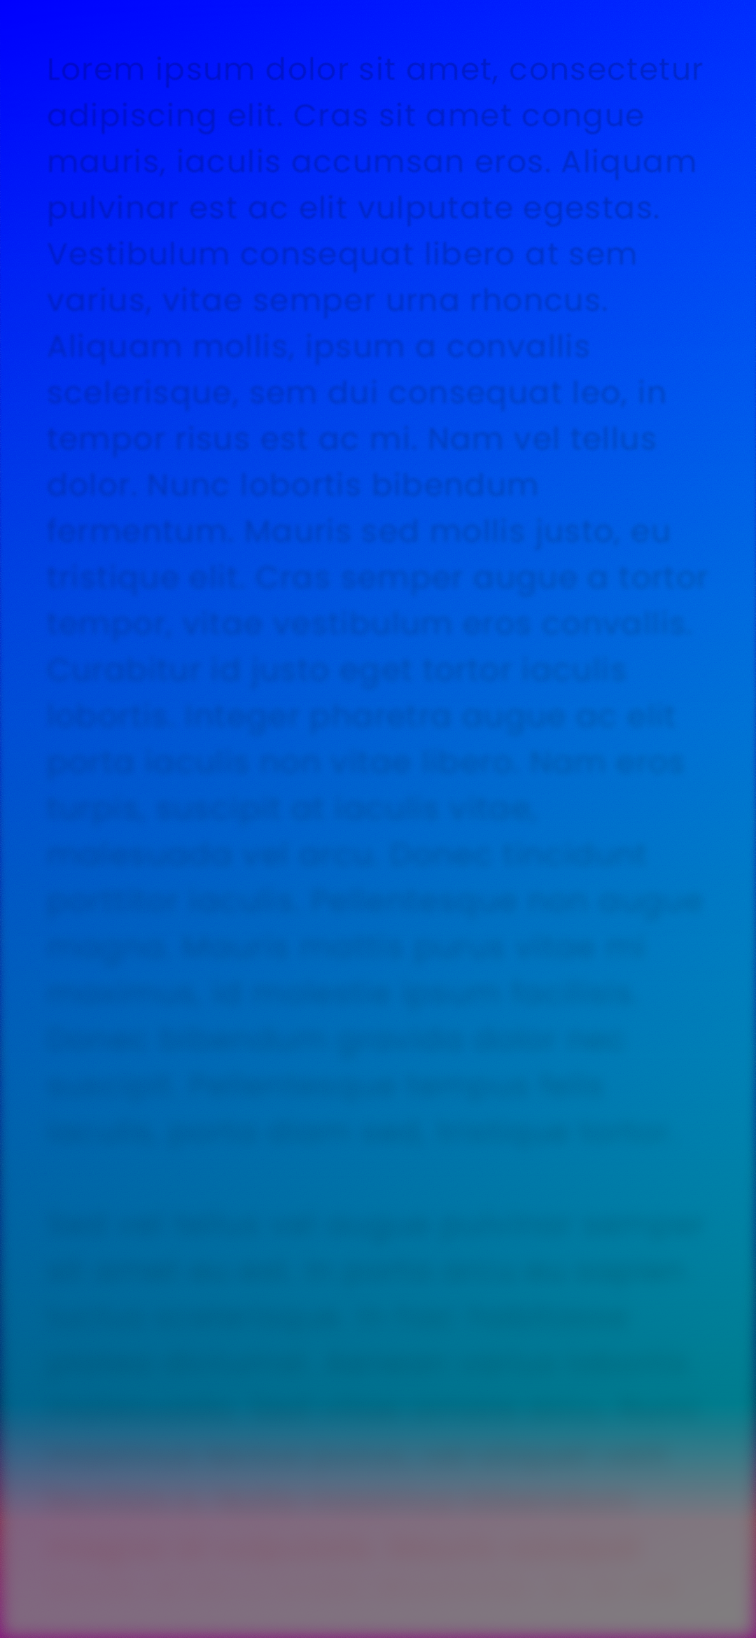
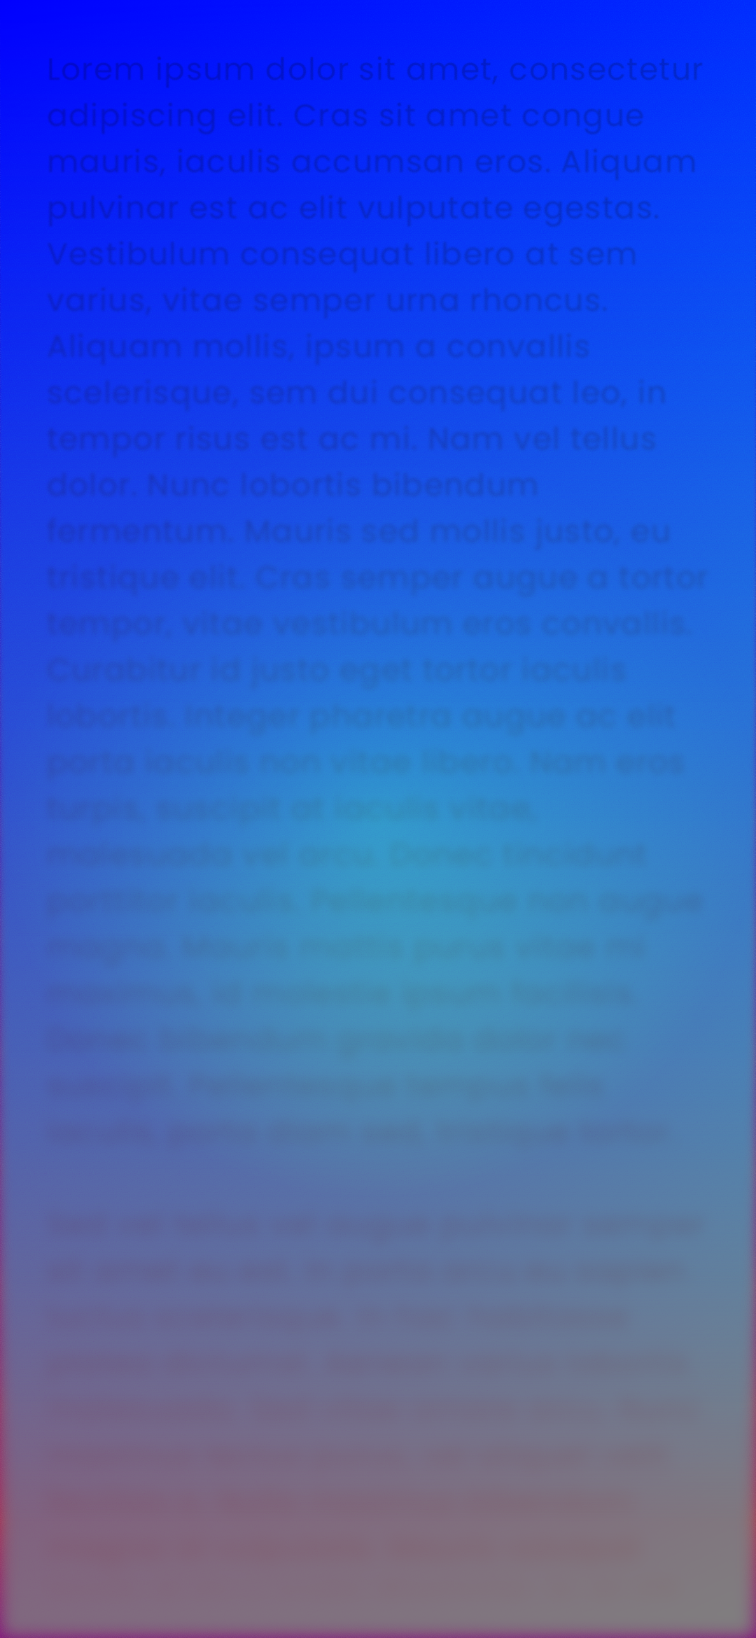
Fix progressive brush tint alpha modulation (#1331)
## Summary

- Preserve brush RGB during progressive tint-alpha modulation with
`DstIn`.
- Add API 31/32 solid-brush versus solid-colour pixel-parity coverage.
- Update the two affected Android API-32 progressive-brush references,
restoring the red/yellow brush over the blue/cyan background.

## Validation

- `./gradlew :haze-screenshot-tests:verifyScreenshotMatrixPr --no-scan`
- `./gradlew check --no-scan`

diff --git a/haze-screenshot-tests/src/androidHostTest/kotlin/dev/chrisbanes/haze/ProgressiveBlurAndroidScreenshotTest.kt b/haze-screenshot-tests/src/androidHostTest/kotlin/dev/chrisbanes/haze/ProgressiveBlurAndroidScreenshotTest.kt
@@ -8,16 +8,22 @@ package dev.chrisbanes.haze
 import androidx.compose.foundation.background
 import androidx.compose.foundation.layout.Box
 import androidx.compose.foundation.layout.Column
+import androidx.compose.foundation.layout.Row
+import androidx.compose.foundation.layout.fillMaxHeight
 import androidx.compose.foundation.layout.fillMaxSize
+import androidx.compose.runtime.Composable
 import androidx.compose.runtime.mutableStateOf
 import androidx.compose.ui.Modifier
+import androidx.compose.ui.graphics.Brush
 import androidx.compose.ui.graphics.Color
 import androidx.compose.ui.graphics.luminance
 import androidx.compose.ui.unit.dp
 import assertk.assertThat
+import assertk.assertions.isCloseTo
 import assertk.assertions.isGreaterThan
 import assertk.assertions.isLessThan
 import dev.chrisbanes.haze.blur.HazeBlurStyle
+import dev.chrisbanes.haze.blur.HazeColorEffect
 import dev.chrisbanes.haze.blur.hazeBlur
 import dev.chrisbanes.haze.test.ScreenshotTest
 import dev.chrisbanes.haze.test.ScreenshotTheme
@@ -27,6 +33,36 @@ import org.robolectric.annotation.Config
 
 @Config(sdk = [31, 32])
 class ProgressiveBlurAndroidScreenshotTest : ScreenshotTest() {
+
+  @Test
+  fun solidRedBrushTint_matchesSolidRedColorTint() = runScreenshotTest {
+    setContent {
+      ScreenshotTheme {
+        Row(Modifier.fillMaxSize()) {
+          TintCell(
+            modifier = Modifier.weight(1f).fillMaxHeight(),
+            colorEffect = HazeColorEffect.tint(
+              Brush.verticalGradient(0f to Color.Red, 1f to Color.Red),
+            ),
+          )
+          TintCell(
+            modifier = Modifier.weight(1f).fillMaxHeight(),
+            colorEffect = HazeColorEffect.tint(Color.Red),
+          )
+        }
+      }
+    }
+
+    val pixels = captureRootPixels()
+    val brushTintPixel = pixels[pixels.width / 4, pixels.height / 2]
+    val colorTintPixel = pixels[pixels.width * 3 / 4, pixels.height / 2]
+
+    assertThat(brushTintPixel.red, "brush tint red").isCloseTo(colorTintPixel.red, 0.01f)
+    assertThat(brushTintPixel.green, "brush tint green").isCloseTo(colorTintPixel.green, 0.01f)
+    assertThat(brushTintPixel.blue, "brush tint blue").isCloseTo(colorTintPixel.blue, 0.01f)
+    assertThat(brushTintPixel.alpha, "brush tint alpha").isCloseTo(colorTintPixel.alpha, 0.01f)
+    assertThat(brushTintPixel.red, "brush tint preserves red").isGreaterThan(0.9f)
+  }
 
   @Test
   fun progressiveBlur_contentInputRefreshesWhenBackgroundChanges() = runScreenshotTest {
@@ -140,5 +176,31 @@ class ProgressiveBlurAndroidScreenshotTest : ScreenshotTest() {
         assertThat(luminance, label).isLessThan(0.98f)
       }
     }
+  }
+}
+
+@Composable
+private fun TintCell(
+  modifier: Modifier,
+  colorEffect: HazeColorEffect,
+) {
+  Box(
+    modifier.hazeBlur(
+      input = HazeInput.Content,
+      style = HazeBlurStyle {
+        blurRadius(0.dp)
+        noiseFactor(0f)
+        colorEffects(listOf(colorEffect))
+        progressive(
+          HazeProgressive.horizontalGradient(
+            startIntensity = 0.5f,
+            endIntensity = 0.5f,
+          ),
+        )
+      },
+      performanceMode = HazePerformanceMode.Quality,
+    ),
+  ) {
+    Box(Modifier.fillMaxSize().background(Color.White))
   }
 }

diff --git a/haze-blur/src/commonMain/kotlin/dev/chrisbanes/haze/blur/BlurRenderEffect.kt b/haze-blur/src/commonMain/kotlin/dev/chrisbanes/haze/blur/BlurRenderEffect.kt
@@ -204,7 +204,7 @@ private fun PlatformRenderEffect.withBrushTint(
     createColorFilterRenderEffect(
       colorFilter = createBlendColorFilter(
         color = Color.Black.copy(alpha = alphaModulate).toArgb(),
-        blendMode = BlendMode.SrcIn,
+        blendMode = BlendMode.DstIn,
       ),
       input = createShaderRenderEffect(tintBrush),
     )
